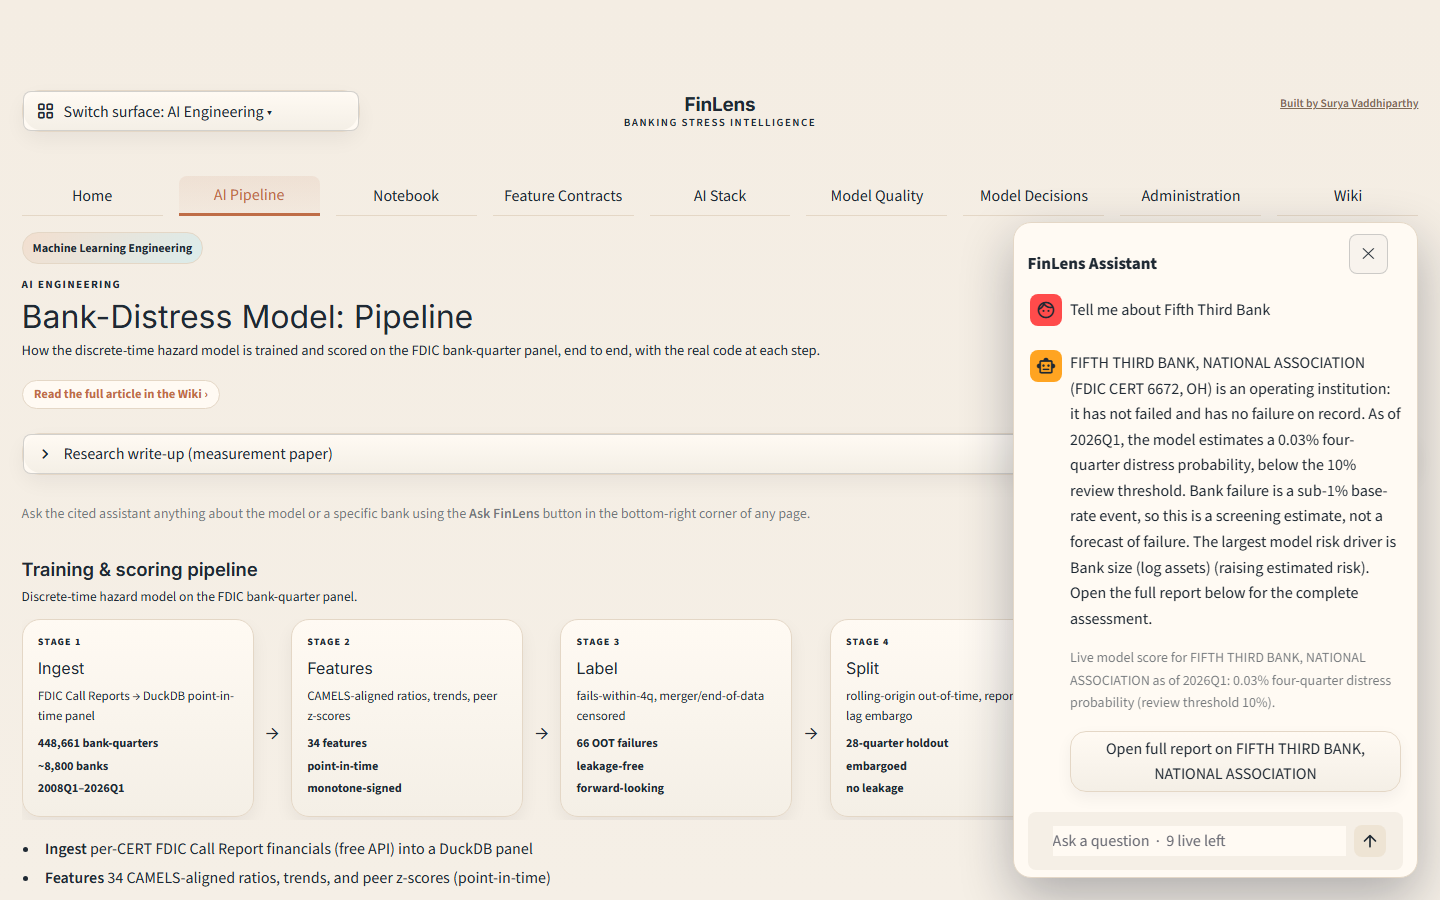
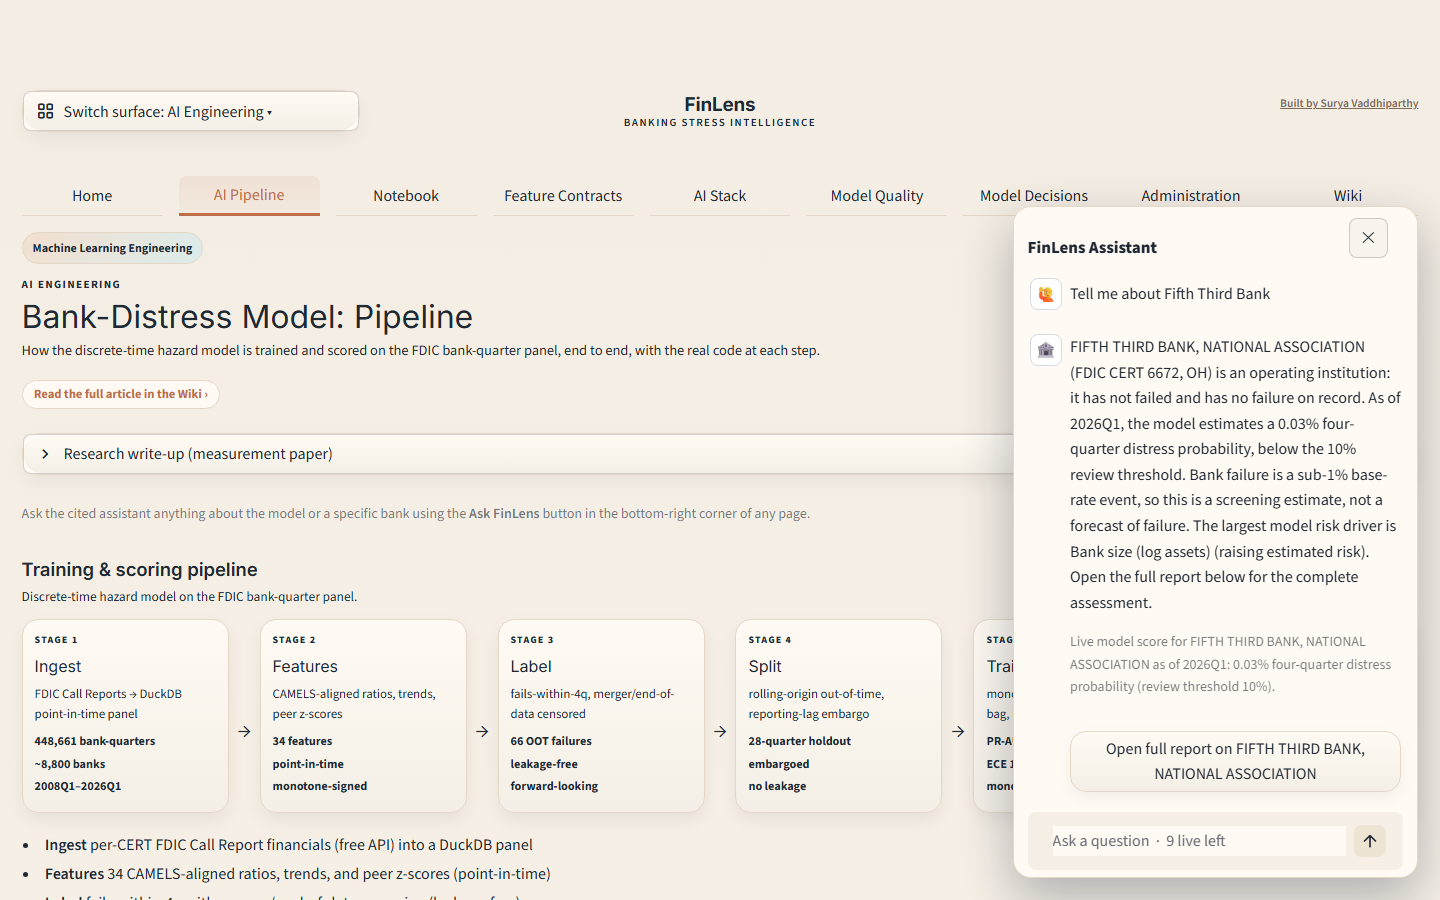
UI ceiling cycle: wiki TOC rail, earnings chart legend/axis, notebook grammar, chat spacing
- Wiki: the section-tree rail is now a bordered/tinted panel, giving a clear two-column boundary.
- Stress Pulse "Earnings And Funding": added the Quarter x-axis title and lifted the legend above
  the plot so net-income bars vs ROA line are unambiguous.
- AI notebook intro: fixed the awkward lead sentence.
- Chat: spacing before the "Open full report" CTA so long replies don't visually merge with it.
- Verified non-defects (filtered capture-timing): SVB report SHAP is populated (6 drivers); the
  stress charts already carry legends + dual-axis titles.

diff --git a/streamlit_app/pages/7_AI_Engineering.py b/streamlit_app/pages/7_AI_Engineering.py
@@ -90,8 +90,8 @@ _AI_INTRO = {
                  "How the discrete-time hazard model is trained and scored on the FDIC "
                  "bank-quarter panel, end to end, with the real code at each step."),
     "notebook": ("Bank-Distress Model: Analysis Notebook",
-                 "The Jupyter notebook the analysis was built in, executed on the real "
-                 "panel: EDA, the out-of-time evaluation, calibration, and SHAP."),
+                 "The Jupyter notebook behind this analysis, executed on the real panel: "
+                 "EDA, out-of-time evaluation, calibration, and SHAP."),
     "contracts": ("Bank-Distress Model: Feature Contracts",
                   "The model's input contract: every feature, its enforced monotone "
                   "direction, its measured importance, and how the features correlate."),

diff --git a/streamlit_app/pages/0_Stress_Pulse.py b/streamlit_app/pages/0_Stress_Pulse.py
@@ -63,9 +63,10 @@ def earnings_chart(frame: pd.DataFrame) -> go.Figure:
     )
     figure.update_layout(
         margin=dict(l=10, r=10, t=40, b=10),
+        xaxis_title="Quarter",
         yaxis_title="Net income ($B)",
         yaxis2=dict(title="ROA (%)", overlaying="y", side="right"),
-        legend=dict(orientation="h"),
+        legend=dict(orientation="h", yanchor="bottom", y=1.02, x=0),
         paper_bgcolor="rgba(255,255,255,0)",
         plot_bgcolor="rgba(255,255,255,0)",
         font=dict(color="#1f2933"),

diff --git a/streamlit_app/lib/theme.py b/streamlit_app/lib/theme.py
@@ -1683,8 +1683,12 @@ def _build_app_css(mode: str, sidebar_open: bool = False) -> str:
         top: 1rem;
         max-height: calc(100vh - 2rem);
         overflow-y: auto;
-        padding-right: .5rem;
+        padding: .6rem .85rem .6rem .7rem;
+        margin-right: .4rem;
         font-size: .82rem;
+        background: {palette["content_bg"]};
+        border: 1px solid {palette["border"]};
+        border-radius: 14px;
     }}
     .wiki-tree-home {{
         display: block;

diff --git a/streamlit_app/lib/chat_widget.py b/streamlit_app/lib/chat_widget.py
@@ -82,6 +82,7 @@ def _render_answer(out: dict, idx: int) -> None:
     bank = out.get("bank_name")
     cert = out.get("bank_cert")
     if bank:
+        st.markdown("<div style='height:.35rem'></div>", unsafe_allow_html=True)
         if st.button(f"Open full report on {bank}", key=f"chat_report_{idx}",
                      use_container_width=True):
             st.session_state["report_bank"] = bank
